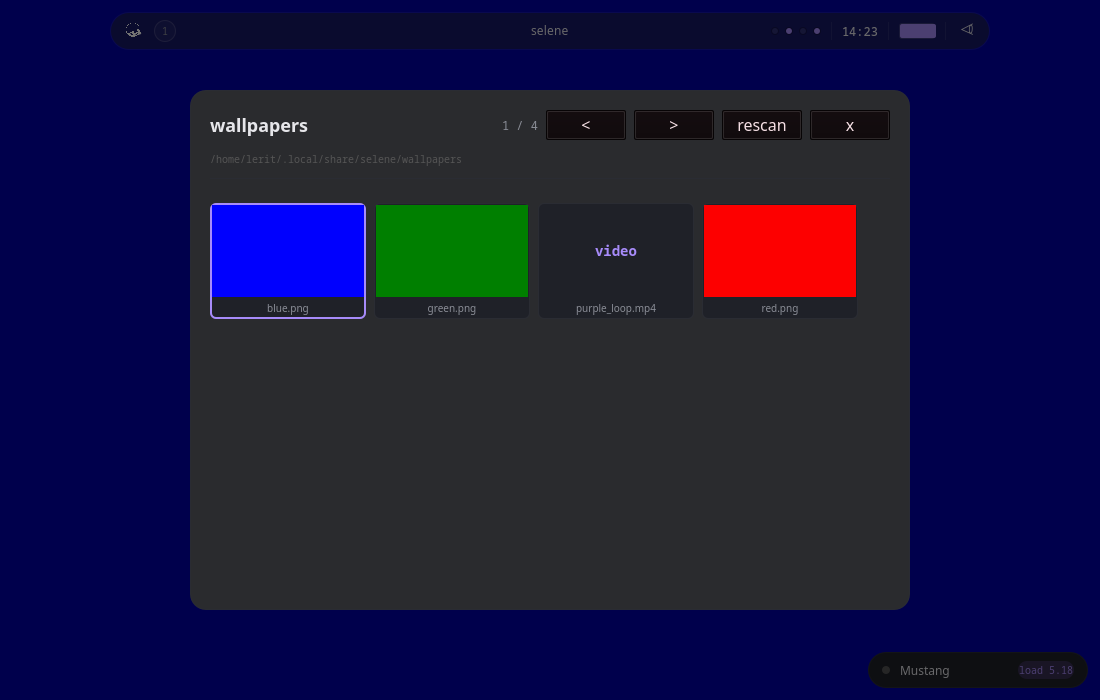
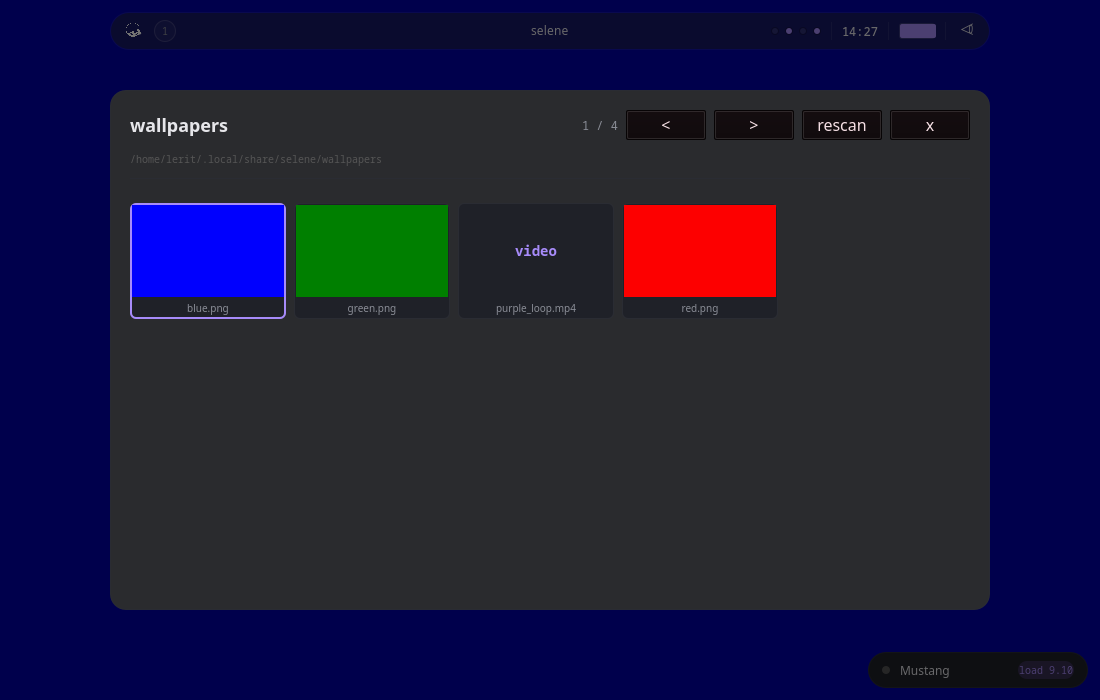
Polish: media title in bar, wider wallpaper picker, auto-close on pick
- Bar grows a small media title (truncated to 180px) that surfaces
  when something is playing. Caelestia does this and it makes the bar
  feel less bare when the user has music on.
- Wallpaper picker widened to 880px so the grid can show 4 thumb / row.
- Click-to-pick now auto-closes the panel so the user sees the new
  wallpaper immediately.

diff --git a/crates/selene-shell/qml/Bar.qml b/crates/selene-shell/qml/Bar.qml
@@ -143,7 +143,7 @@ Rectangle {
         anchors.verticalCenter: parent.verticalCenter
         anchors.leftMargin: Tokens.barPadding
         anchors.rightMargin: Tokens.barPadding
-        width: Math.min(parent.width - 320, implicitWidth)
+        width: Math.min(parent.width - 480, implicitWidth)
         horizontalAlignment: Text.AlignHCenter
         text: {
             if (!bridge) return "selene";
@@ -160,13 +160,30 @@ Rectangle {
         elide: Text.ElideMiddle
     }
 
-    // -- Right: tray + clock + status icons + power ------------------
+    // -- Right: media + tray + clock + status icons + power ------------
     RowLayout {
         id: rightCluster
         anchors.right: parent.right
         anchors.rightMargin: Tokens.barPadding
         anchors.verticalCenter: parent.verticalCenter
         spacing: Tokens.barSpacing
+
+        // Media title appears next to the status icons when something
+        // is playing. Caelestia shows it on the bar too; we keep
+        // it short and elide.
+        Label {
+            Layout.maximumWidth: 180
+            visible: island && island.media_playing
+                     && island.media_title.length > 0
+            text: (island && island.media_playing ? "\u25B6 " : "") +
+                  (island ? island.media_title : "")
+            color: Tokens.textMuted
+            font.family: Tokens.monoFamily
+            font.pixelSize: Tokens.fontXs
+            elide: Text.ElideRight
+        }
+
+        BarSeparator { visible: island && island.media_playing }
 
         // Status icons cluster -- mirrors Caelestia's `statusIcons`
         // array. Six small dots; the ones whose backing QObject is

diff --git a/crates/selene-shell/qml/WallpaperPicker.qml b/crates/selene-shell/qml/WallpaperPicker.qml
@@ -27,7 +27,7 @@ Rectangle {
 
     Rectangle {
         anchors.centerIn: parent
-        width: Math.min(parent.width - Tokens.barMargin * 4, 720)
+        width: Math.min(parent.width - Tokens.barMargin * 4, 880)
         height: Math.min(parent.height - Tokens.barMargin * 4, 520)
 
         color: Tokens.surface
@@ -184,7 +184,13 @@ Rectangle {
 
                     MouseArea {
                         anchors.fill: parent
-                        onClicked: if (wallpaper) wallpaper.pick_index(index)
+                        cursorShape: Qt.PointingHandCursor
+                        onClicked: {
+                            if (wallpaper) wallpaper.pick_index(index);
+                            // Auto-close the picker after a successful pick so
+                            // the wallpaper is visible immediately.
+                            root.close();
+                        }
                     }
                 }
             }

diff --git a/crates/selene-shell/qml/SettingsPanel.qml b/crates/selene-shell/qml/SettingsPanel.qml
@@ -24,7 +24,7 @@ Rectangle {
         anchors.top: parent.top
         anchors.bottom: parent.bottom
         anchors.margins: Tokens.barMargin
-        width: 400
+        width: 420
 
         color: Tokens.surface
         radius: Tokens.radiusLg
